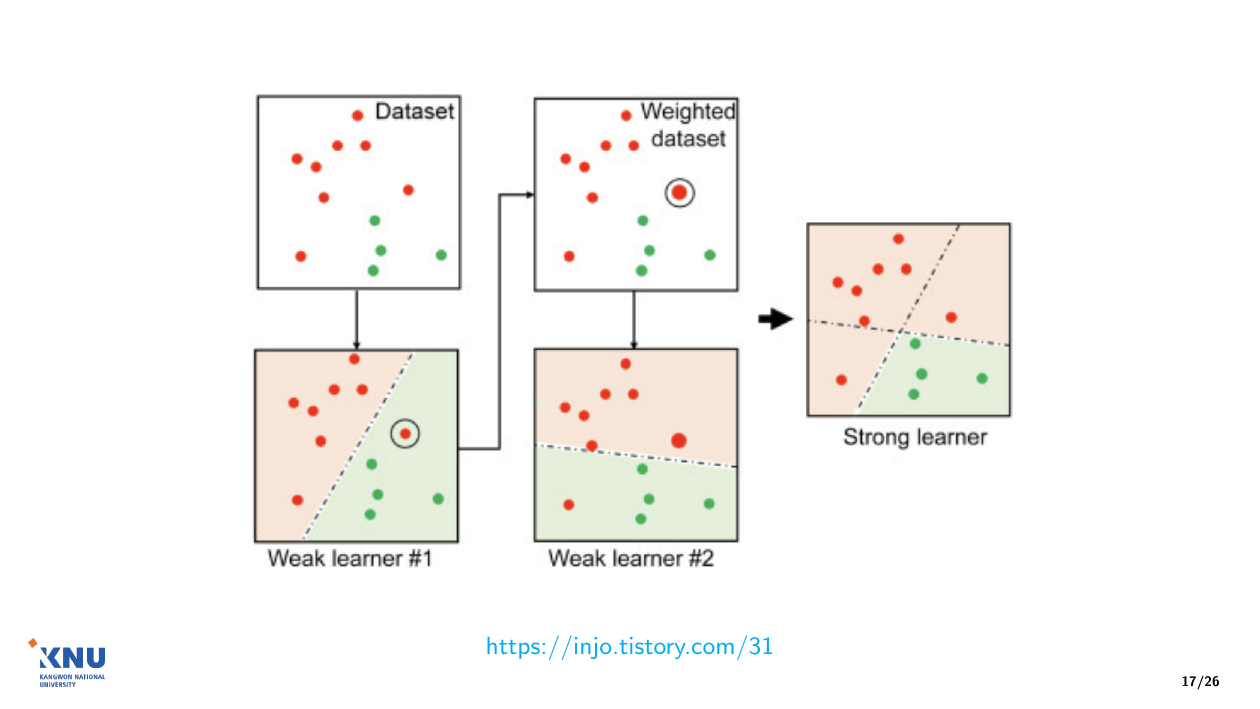
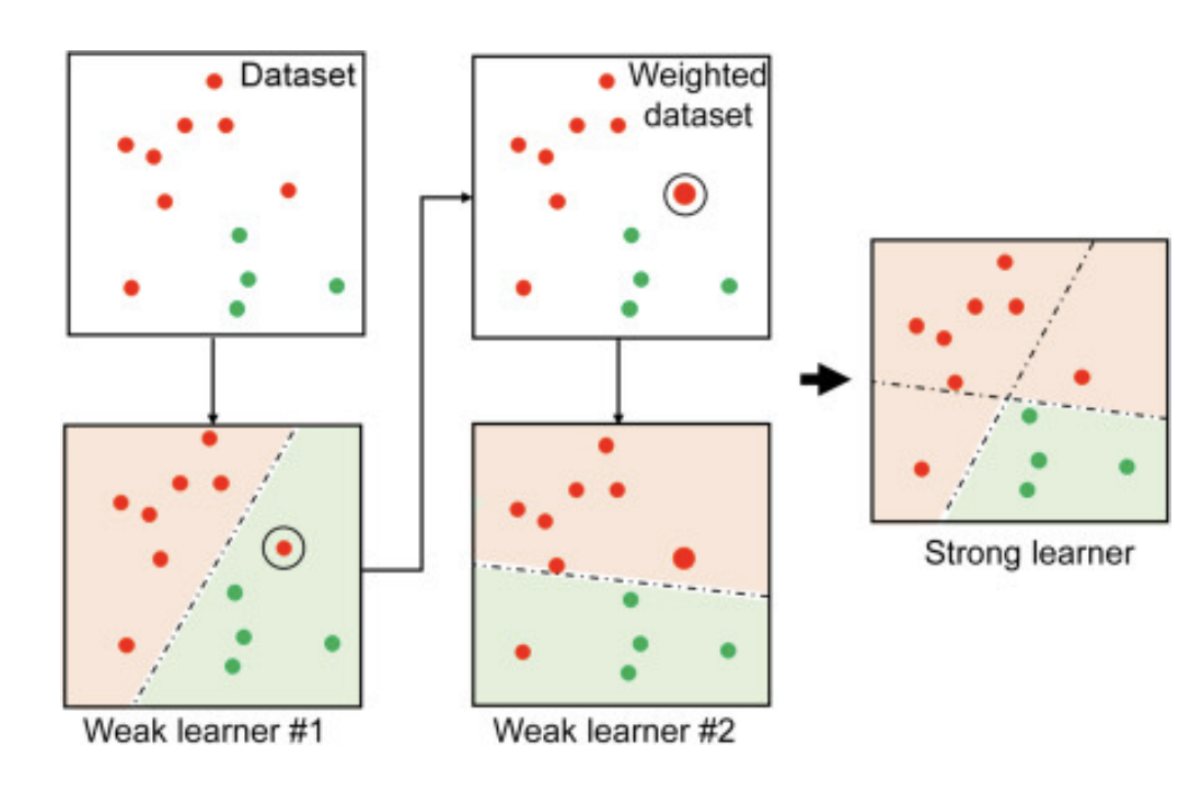
인공지능 7-2·8-1: 결정 트리 16–35쪽은 8-1 수업·시험 범위로 표기 정정, 8-1 원본 그림을 교안 그림 캡처로 교체
Claude-Session: https://claude.ai/code/session_01F7KMbNBwyG5dQ2szsSSuDG

diff --git a/drive/ai/lecture/midterm.html b/drive/ai/lecture/midterm.html
@@ -436,8 +436,8 @@ body.nav-closed .wrap{grid-template-columns:minmax(0,1fr)}body.nav-closed .side{
           <tr><td><b>6-1</b></td><td>10.08 (목)</td><td>선형 회귀 · 로지스틱 회귀</td><td>점들만 보고 x와 y의 관계식(β)을 어떻게 찾나? y가 0/1이면?</td><td><a href="./week06/06-1.html#intro">00</a> · <a href="./week06/06-1.html#s20">예상 문제</a></td></tr>
           <tr><td><b>6-2</b></td><td>10.12 (월)</td><td>SVM</td><td>두 클래스 사이에 선을 긋는다면 어디가 가장 안전한가?</td><td><a href="./week06/06-2.html#intro">00</a> · <a href="./week06/06-2.html#s20">예상 문제</a></td></tr>
           <tr><td><b>7-1</b></td><td>10.15 (목)</td><td>군집화 (K-평균 · 계층적 · DBSCAN 소개)</td><td>정답 없이 비슷한 것끼리 어떻게 묶나?</td><td><a href="./week07/07-1.html#intro">00</a> · <a href="./week07/07-1.html#s26">예상 문제</a></td></tr>
-          <tr><td><b>7-2</b></td><td>10.19 (월)</td><td>DBSCAN · 결정 트리 (수업은 15쪽까지, 자료는 35쪽까지)</td><td>"빽빽하다"를 어떻게 정의하나? 어떤 질문을 먼저 해야 잘 나뉘나?</td><td><a href="./week07/07-2.html#intro">00</a> · <a href="./week07/07-2.html#s20">예상 문제</a></td></tr>
-          <tr><td><b>8-1</b></td><td>10.22 (목)</td><td>앙상블 학습 (투표 · 배깅 · 랜덤 포레스트 · 부스팅 · 스태킹)</td><td>약한 모델 여러 개를 어떻게 합치면 하나보다 나아지나?</td><td><a href="./week08/08-1.html#intro">00</a> · <a href="./week08/08-1.html#s26">예상 문제</a></td></tr>
+          <tr><td><b>7-2</b></td><td>10.19 (월)</td><td>DBSCAN · 결정 트리 (자료는 결정 트리 1–35쪽 전체)</td><td>"빽빽하다"를 어떻게 정의하나? 어떤 질문을 먼저 해야 잘 나뉘나?</td><td><a href="./week07/07-2.html#intro">00</a> · <a href="./week07/07-2.html#s20">예상 문제</a></td></tr>
+          <tr><td><b>8-1</b></td><td>10.22 (목)</td><td>결정 트리 16–35쪽(→ 7-2 자료) · 앙상블 학습</td><td>약한 모델 여러 개를 어떻게 합치면 하나보다 나아지나?</td><td><a href="./week08/08-1.html#intro">00</a> · <a href="./week08/08-1.html#s26">예상 문제</a></td></tr>
           <tr><td><b>8-2</b></td><td>—</td><td>중간고사 준비 — 교수님 시험 내용 정리(쪽집게) 예정</td><td>교수님이 짚어 주신 시험 포인트를 이 페이지에 반영합니다 (추후 작성)</td><td>—</td></tr>
           <tr><td><b>9-1</b></td><td>—</td><td><b>중간고사</b></td><td>—</td><td>—</td></tr>
         </tbody>
@@ -451,12 +451,12 @@ body.nav-closed .wrap{grid-template-columns:minmax(0,1fr)}body.nav-closed .side{
     <p>시험 범위의 모든 내용은 아래 지도 한 장에 들어갑니다. 4-2에서 AI를 <b>규칙기반</b>과 <b>머신러닝</b>으로 나누고, 머신러닝을 다시 <b>지도·비지도·강화</b>로 나눴습니다. 6주차부터는 이 칸들을 하나씩 채운 것입니다.</p>
     <figure>
       <svg viewBox="0 0 900 430" role="img" aria-label="시험 범위 전체 지도" style="font-family:var(--font)"><defs><marker id="mah" viewBox="0 0 10 10" refX="9" refY="5" markerWidth="6" markerHeight="6" orient="auto"><path d="M0 0L10 5L0 10z" style="fill:var(--ink-3)"/></marker></defs><rect x="375" y="10" width="150" height="40" rx="9" style="fill:var(--surface);stroke:var(--line);stroke-width:1.4"/><text x="450.0" y="35.0" text-anchor="middle" style="font-size:13.5px;font-weight:700;fill:var(--ink)">인공지능 (AI)</text><path d="M450 50 C450 70.0 150 70.0 150 88" style="fill:none;stroke:var(--ink-3);stroke-width:1.4" marker-end="url(#mah)"/><path d="M450 50 C450 70.0 560 70.0 560 88" style="fill:none;stroke:var(--ink-3);stroke-width:1.4" marker-end="url(#mah)"/><a href="./week04/04-2.html#s1"><rect x="55" y="90" width="190" height="48" rx="9" style="fill:var(--surface);stroke:var(--line);stroke-width:1.4"/><text x="150.0" y="112.0" text-anchor="middle" style="font-size:13.5px;font-weight:700;fill:var(--ink)">규칙기반 AI</text><text x="150.0" y="129.0" text-anchor="middle" style="font-size:11px;fill:var(--accent-deep);font-weight:700">4-2 1부</text></a><a href="./week04/04-2.html#s9"><rect x="450" y="90" width="220" height="48" rx="9" style="fill:var(--surface);stroke:var(--line);stroke-width:1.4"/><text x="560.0" y="112.0" text-anchor="middle" style="font-size:13.5px;font-weight:700;fill:var(--ink)">머신러닝 (ML)</text><text x="560.0" y="129.0" text-anchor="middle" style="font-size:11px;fill:var(--accent-deep);font-weight:700">4-2 2부 · 5-1</text></a><a href="./week04/04-2.html#s2"><rect x="55" y="160" width="190" height="62" rx="9" style="fill:var(--surface);stroke:var(--line);stroke-width:1.4"/><text x="150.0" y="189.0" text-anchor="middle" style="font-size:13.5px;fill:var(--ink)">논리·추론·탐색</text><text x="150.0" y="206.0" text-anchor="middle" style="font-size:11px;fill:var(--accent-deep);font-weight:700">명제 · A* · 전문가 시스템</text></a><path d="M150 138 V158" style="stroke:var(--ink-3);stroke-width:1.4" marker-end="url(#mah)"/><path d="M560 138 C560 159.0 360 159.0 360 178" style="fill:none;stroke:var(--ink-3);stroke-width:1.4" marker-end="url(#mah)"/><path d="M560 138 C560 159.0 640 159.0 640 178" style="fill:none;stroke:var(--ink-3);stroke-width:1.4" marker-end="url(#mah)"/><path d="M560 138 C560 159.0 820 159.0 820 178" style="fill:none;stroke:var(--ink-3);stroke-width:1.4" marker-end="url(#mah)"/><a href="./week04/04-2.html#s14"><rect x="270" y="180" width="180" height="46" rx="9" style="fill:var(--accent-soft);stroke:var(--line);stroke-width:1.4"/><text x="360.0" y="201.0" text-anchor="middle" style="font-size:13.5px;font-weight:700;fill:var(--ink)">지도 학습</text><text x="360.0" y="218.0" text-anchor="middle" style="font-size:11px;fill:var(--accent-deep);font-weight:700">x와 정답 y가 있음</text></a><a href="./week04/04-2.html#s15"><rect x="560" y="180" width="160" height="46" rx="9" style="fill:var(--accent-soft);stroke:var(--line);stroke-width:1.4"/><text x="640.0" y="201.0" text-anchor="middle" style="font-size:13.5px;font-weight:700;fill:var(--ink)">비지도 학습</text><text x="640.0" y="218.0" text-anchor="middle" style="font-size:11px;fill:var(--accent-deep);font-weight:700">x만 있음</text></a><a href="./week04/04-2.html#s16"><rect x="745" y="180" width="145" height="46" rx="9" style="fill:var(--accent-soft);stroke:var(--line);stroke-width:1.4"/><text x="817.5" y="201.0" text-anchor="middle" style="font-size:13.5px;font-weight:700;fill:var(--ink)">강화 학습</text><text x="817.5" y="218.0" text-anchor="middle" style="font-size:11px;fill:var(--accent-deep);font-weight:700">4-2 개념만</text></a><path d="M360 226 C360 247.0 160 247.0 160 266" style="fill:none;stroke:var(--ink-3);stroke-width:1.4" marker-end="url(#mah)"/><path d="M360 226 C360 247.0 450 247.0 450 266" style="fill:none;stroke:var(--ink-3);stroke-width:1.4" marker-end="url(#mah)"/><rect x="80" y="268" width="160" height="40" rx="9" style="fill:var(--surface);stroke:var(--line);stroke-width:1.4"/><text x="160.0" y="293.0" text-anchor="middle" style="font-size:13.5px;font-weight:700;fill:var(--ink)">회귀 — 숫자 예측</text><rect x="330" y="268" width="240" height="40" rx="9" style="fill:var(--surface);stroke:var(--line);stroke-width:1.4"/><text x="450.0" y="293.0" text-anchor="middle" style="font-size:13.5px;font-weight:700;fill:var(--ink)">분류 — 범주 예측</text><path d="M160 308 C160 326.5 105 326.5 105 343" style="fill:none;stroke:var(--ink-3);stroke-width:1.4" marker-end="url(#mah)"/><path d="M160 308 C160 326.5 225 326.5 225 343" style="fill:none;stroke:var(--ink-3);stroke-width:1.4" marker-end="url(#mah)"/><a href="./week06/06-1.html#s5"><rect x="30" y="345" width="150" height="50" rx="9" style="fill:var(--surface);stroke:var(--line);stroke-width:1.4"/><text x="105.0" y="368.0" text-anchor="middle" style="font-size:13.5px;font-weight:700;fill:var(--ink)">선형 회귀</text><text x="105.0" y="385.0" text-anchor="middle" style="font-size:11px;fill:var(--accent-deep);font-weight:700">6-1 1부</text></a><a href="./week07/07-2.html#s11"><rect x="190" y="345" width="120" height="50" rx="9" style="fill:var(--surface);stroke:var(--ink-3);stroke-width:1.4"/><text x="250.0" y="368.0" text-anchor="middle" style="font-size:13.5px;font-weight:700;fill:var(--ink)">회귀 트리</text><text x="250.0" y="385.0" text-anchor="middle" style="font-size:11px;fill:var(--accent-deep);font-weight:700">7-2</text></a><path d="M450 308 C450 326.5 380 326.5 380 343" style="fill:none;stroke:var(--ink-3);stroke-width:1.4" marker-end="url(#mah)"/><path d="M450 308 C450 326.5 485 326.5 485 343" style="fill:none;stroke:var(--ink-3);stroke-width:1.4" marker-end="url(#mah)"/><path d="M450 308 C450 326.5 595 326.5 595 343" style="fill:none;stroke:var(--ink-3);stroke-width:1.4" marker-end="url(#mah)"/><a href="./week06/06-1.html#s15"><rect x="320" y="345" width="120" height="50" rx="9" style="fill:var(--surface);stroke:var(--line);stroke-width:1.4"/><text x="380.0" y="368.0" text-anchor="middle" style="font-size:13.5px;font-weight:700;fill:var(--ink)">로지스틱 회귀</text><text x="380.0" y="385.0" text-anchor="middle" style="font-size:11px;fill:var(--accent-deep);font-weight:700">6-1 2부</text></a><a href="./week06/06-2.html#s1"><rect x="450" y="345" width="70" height="50" rx="9" style="fill:var(--surface);stroke:var(--line);stroke-width:1.4"/><text x="485.0" y="368.0" text-anchor="middle" style="font-size:13.5px;font-weight:700;fill:var(--ink)">SVM</text><text x="485.0" y="385.0" text-anchor="middle" style="font-size:11px;fill:var(--accent-deep);font-weight:700">6-2</text></a><a href="./week07/07-2.html#s1"><rect x="530" y="345" width="120" height="50" rx="9" style="fill:var(--surface);stroke:var(--line);stroke-width:1.4"/><text x="590.0" y="368.0" text-anchor="middle" style="font-size:13.5px;font-weight:700;fill:var(--ink)">결정 트리</text><text x="590.0" y="385.0" text-anchor="middle" style="font-size:11px;fill:var(--accent-deep);font-weight:700">7-2</text></a><path d="M640 226 V262" style="stroke:var(--ink-3);stroke-width:1.4" marker-end="url(#mah)"/><rect x="590" y="264" width="100" height="40" rx="9" style="fill:var(--surface);stroke:var(--line);stroke-width:1.4"/><text x="640.0" y="289.0" text-anchor="middle" style="font-size:13.5px;font-weight:700;fill:var(--ink)">군집화</text><path d="M640 304 C640 324.5 690 324.5 690 343" style="fill:none;stroke:var(--ink-3);stroke-width:1.4" marker-end="url(#mah)"/><path d="M640 304 C640 324.5 800 324.5 800 343" style="fill:none;stroke:var(--ink-3);stroke-width:1.4" marker-end="url(#mah)"/><a href="./week07/07-1.html#s4"><rect x="662" y="345" width="110" height="50" rx="9" style="fill:var(--surface);stroke:var(--line);stroke-width:1.4"/><text x="717.0" y="368.0" text-anchor="middle" style="font-size:13.5px;font-weight:700;fill:var(--ink)">K-평균 · 계층적</text><text x="717.0" y="385.0" text-anchor="middle" style="font-size:11px;fill:var(--accent-deep);font-weight:700">7-1 (거리)</text></a><a href="./week07/07-1.html#s16"><rect x="782" y="345" width="110" height="50" rx="9" style="fill:var(--surface);stroke:var(--line);stroke-width:1.4"/><text x="837.0" y="368.0" text-anchor="middle" style="font-size:13.5px;font-weight:700;fill:var(--ink)">DBSCAN · GMM</text><text x="837.0" y="385.0" text-anchor="middle" style="font-size:11px;fill:var(--accent-deep);font-weight:700">7-1 · 7-2 (밀도)</text></a><rect x="30" y="405" width="860" height="22" rx="9" style="fill:transparent;stroke:transparent;stroke-width:1.4"/><text x="460.0" y="421.0" text-anchor="middle" style="font-size:13.5px;fill:var(--ink)"></text><text x="450" y="420" text-anchor="middle" style="font-size:11.5px;fill:var(--ink-2)">모든 모델의 바탕: 5-1의 과대·과소적합, 테스트·검증, 수학(함수·미분·벡터·행렬·확률) — 상자를 누르면 해당 섹션으로 이동</text></svg>
-      <figcaption>시험 범위 전체 지도 — 상자를 누르면 해당 차시 섹션으로 이동합니다. 회귀 트리는 7-2 페이지 뒷부분(교안 29–33쪽, 수업에서는 다루지 않음)</figcaption>
+      <figcaption>시험 범위 전체 지도 — 상자를 누르면 해당 차시 섹션으로 이동합니다. 회귀 트리는 7-2 페이지 뒷부분(교안 29–33쪽, 8-1 수업 내용)</figcaption>
     </figure>
     <ul>
       <li><b>지도 학습</b> = 학습 데이터에 정답 y가 있음. y가 <b>숫자</b>면 회귀, <b>범주</b>면 분류 (<a href="./week04/04-2.html#s14">4-2의 14</a>).</li>
       <li><b>로지스틱 "회귀"는 분류</b>입니다. 이름만 회귀이고, 출력이 확률이라 0.5 기준으로 0/1을 정합니다 (<a href="./week06/06-1.html#s15">6-1의 15</a>).</li>
-      <li><b>결정 트리는 분류와 회귀를 둘 다</b> 합니다. 7-2 자료에 분류 트리와 회귀 트리가 모두 있습니다(회귀 트리는 수업에서 다루지 않음).</li>
+      <li><b>결정 트리는 분류와 회귀를 둘 다</b> 합니다. 7-2 자료에 분류 트리와 회귀 트리가 모두 있습니다(회귀 트리는 8-1 수업 내용).</li>
       <li><b>비지도 학습</b> = 정답 y 없이 x만. 시험 범위에서는 군집화만 다룹니다 (<a href="./week07/07-1.html#s1">7-1의 01</a>).</li>
     </ul>
   </section>
@@ -531,7 +531,7 @@ body.nav-closed .wrap{grid-template-columns:minmax(0,1fr)}body.nav-closed .side{
     <div class="call quote"><div class="t">공통</div><ul><li>시험에서 <b>식은 형태를 그대로 안내</b>해 주고, 식 자체를 외워 쓰게 하는 문제는 내지 않는다. 식은 이해를 돕기 위한 것 (<a href="./week06/06-2.html#s1">6-2</a>)</li></ul></div>
     <div class="call quote"><div class="t">★ 중요하다고 하신 것</div><ul><li><b>벌점 매개변수 C는 시험에 잘 나온다</b> — C 크기 ↔ 마진 폭 ↔ 과적합/과소적합 ↔ 편향/분산을 한 묶음으로 (<a href="./week06/06-2.html#s12">6-2의 12</a>)</li><li>SVM은 <b>서포트 벡터를 어떻게 선정하고 마진을 어떻게 최대로 하는지</b>를 배운다 (<a href="./week06/06-2.html#s1">6-2의 01</a>)</li><li>회귀계수는 <b>상관관계로 해석</b>, 인과관계로 단정하면 안 됨 (<a href="./week06/06-1.html#s10">6-1의 10</a>)</li><li>로그 오즈: <b>p(x)는 y가 1일 확률, 1 − p(x)는 y가 0일 확률</b> (<a href="./week06/06-1.html#s15">6-1의 15</a>)</li><li>DBSCAN 이름에서 중요한 것은 <b>Density와 Noise</b> (<a href="./week07/07-1.html#s16">7-1의 16</a>)</li><li>K-평균은 K를 정해 줘야 하고, <b>K가 바뀌면 cluster 번호는 같은 집단이 아님</b> (<a href="./week07/07-1.html#s4">7-1의 04</a>)</li><li>실루엣: <b>b는 커지고 a는 작아져야</b> 좋은 군집 (<a href="./week07/07-1.html#s12">7-1의 12</a>)</li><li>온라인 학습이 배치 학습보다 좋은 이유는 <b>더 빠르다</b>는 것 (<a href="./week04/04-2.html#s17">4-2의 17</a>)</li></ul></div>
     <div class="call quote"><div class="t">가볍게 · 범위 밖이라고 하신 것</div><ul><li>6-1 최소제곱 공식: <b>직접 푸는 문제는 안 나올 것 같다</b>, "이런 식으로 푼다"까지 이해 (<a href="./week06/06-1.html#s6">6-1의 06</a>)</li><li>6-1 다항 회귀: "차수를 올리면 구불구불해질 수 있다" 정도, 그 이상은 심화라 안 다룸 (<a href="./week06/06-1.html#s11">6-1의 11</a>)</li><li>6-2 교안 21–23쪽 힌지 손실: <b>심화, 시험에 직접 나오지 않음</b> (<a href="./week06/06-2.html#s14">6-2의 14</a>)</li><li>6-2 교안 24–27쪽 특징 공간 확장: <b>그림으로 이해</b> (<a href="./week06/06-2.html#s15">6-2의 15</a>)</li><li>6-2 교안 28–30쪽 커널: <b>심화, 사실상 공부 안 해도 되는 정도</b> — 이름 정도 (<a href="./week06/06-2.html#s16">6-2의 16</a>)</li><li>6-2 교안 31–32쪽: <b>시험 범위 아님</b>, 33쪽 SVR은 잘 안 씀 (<a href="./week06/06-2.html#s17">6-2의 17</a>)</li><li>7-1 교안 24쪽 연결 방식: <b>외울 것 없음</b> (<a href="./week07/07-1.html#s15">7-1의 15</a>)</li></ul></div>
-    <div class="call warn"><div class="t">아직 확인되지 않은 것</div><ul><li>6-2 C의 방향: 교안 16·18쪽(예산 C, 크면 마진 넓음)과 19·22쪽(벌점 C, 크면 마진 좁음)이 반대 — 수업에서 쓰신 정의 확인 필요</li><li>"31–32쪽 시험범위 아님"이 6-2(SVM) 교안인지 군집화 교안(7-2의 03–04)인지 — 지금은 6-2로 적용</li><li>결정 트리 16–35쪽(ID3·회귀 트리·한계)은 수업에서 다루지 않고 8-1부터 앙상블로 넘어감 — 시험 범위인지 확인 필요</li><li>8-1 앙상블은 아직 수업 필기·교수님 말씀을 받지 못함</li></ul></div>
+    <div class="call warn"><div class="t">아직 확인되지 않은 것</div><ul><li>6-2 C의 방향: 교안 16·18쪽(예산 C, 크면 마진 넓음)과 19·22쪽(벌점 C, 크면 마진 좁음)이 반대 — 수업에서 쓰신 정의 확인 필요</li><li>"31–32쪽 시험범위 아님"이 6-2(SVM) 교안인지 군집화 교안(7-2의 03–04)인지 — 지금은 6-2로 적용</li><li>8-1 앙상블은 아직 수업 필기·교수님 말씀을 받지 못함</li></ul></div>
   </section>
 
   <!-- 06 -->
@@ -555,7 +555,7 @@ body.nav-closed .wrap{grid-template-columns:minmax(0,1fr)}body.nav-closed .side{
   <!-- 07 -->
   <section id="s7">
     <h2 class="st"><span class="sq">07</span>8주차 1차시 — 앙상블 학습</h2>
-    <p>8-1부터 새 단원 앙상블 학습(Ensemble Learning, 교안 26쪽)입니다. 결정 트리 16–35쪽은 수업에서 다루지 않았고, 7-2 자료 뒷부분에 교안 기준으로 정리되어 있습니다. 8-1은 아직 수업 필기·교수님 말씀을 받지 못해 교안만으로 정리했습니다.</p>
+    <p>8-1부터 새 단원 앙상블 학습(Ensemble Learning, 교안 26쪽)입니다. 8-1 수업에서는 결정 트리 남은 부분(16–35쪽)도 다루지만, 차시마다 한 챕터로 공부할 수 있게 그 부분은 7-2 자료에 넣었습니다. 8-1은 아직 수업 필기·교수님 말씀을 받지 못해 교안만으로 정리했습니다.</p>
     <div class="tablewrap">
       <table>
         <thead><tr><th>교안 쪽</th><th>내용</th><th>한 줄</th><th>자료</th></tr></thead>

diff --git a/drive/ai/lecture/week07/07-2-note.html b/drive/ai/lecture/week07/07-2-note.html
@@ -203,12 +203,12 @@ body.memo .memo-note{display:inline}
 <li>ID3(엔트로피·정보 이득, 범주 수만큼 분할), 회귀 트리(리프 = y 평균, MSE 최소 분할, 계단 예측), 선형 vs 트리, 한계(회전·작은 변화에 민감). <a class="go" data-s="10"></a></li>
 <li><b>시험에 나올 것</b>: 노드 읽기, 지니·엔트로피 계산과 0/최댓값의 뜻, ΔG 계산으로 분할 고르기, 규제 방향.</li>
 </ol></div>
-<div class="warn" style="margin-top:14px"><div class="h">범위 안내</div><p>수업 시간에는 교안 <b>15쪽(CART 지니 예제)까지</b> 나갔고, 8주차 1차시부터는 새 단원(앙상블 학습)으로 넘어갔습니다. 16–35쪽(ID3 엔트로피 예제, 회귀 트리, 선형 vs 트리, 한계)은 <b>교수님 설명 없이 교안만으로</b> 정리했고, 시험 범위인지는 교수님 확인이 필요합니다. <a class="go" data-s="22"></a></p></div>
+<div class="warn" style="margin-top:14px"><div class="h">범위 안내</div><p>7주차 2차시 수업은 교안 <b>15쪽(CART 지니 예제)까지</b>, 16–35쪽(ID3 엔트로피 예제, 회귀 트리, 선형 vs 트리, 한계)은 <b>8주차 1차시 수업</b> 내용입니다. 차시마다 한 챕터로 공부할 수 있게 결정 트리 전체를 이 노트에 모았습니다. <b>모두 시험 범위</b>입니다. <a class="go" data-s="22"></a></p></div>
 </section>
 
 <section id="n2"><h2><span class="no">02</span>교수님이 짚은 포인트</h2>
 <div class="prof"><div class="h">교수님 말씀</div><p>이 차시에는 교수님이 따로 짚은 시험 포인트가 필기에 없습니다. 결정 트리의 심화·시험 범위 표시도 받지 못했습니다.</p></div>
-<div class="prof"><div class="h">범위 (필기)</div><p>필기 원문: <q>T15페이지 까지(앤트로피 예제부터 다음 시간 수업) 수업 끝</q> → 수업에서 다룬 범위는 교안 1–15쪽. 다음 시간(8-1)은 엔트로피 예제가 아니라 앙상블 학습으로 넘어갔습니다. <a class="go" data-s="22"></a></p></div>
+<div class="prof"><div class="h">범위 (필기)</div><p>필기 원문: <q>T15페이지 까지(앤트로피 예제부터 다음 시간 수업) 수업 끝</q> → 7-2 수업은 교안 1–15쪽, 16쪽(엔트로피 예제)부터는 8-1 수업. <a class="go" data-s="22"></a></p></div>
 <div class="prof"><div class="h">교수님 말씀 · 6-2 차시 (전 범위 공통)</div><p>시험에서 식은 형태를 그대로 안내해 주고, 식 자체를 외워 쓰게 하는 문제는 내지 않는다. 식은 이해를 돕기 위한 것. → 지니·엔트로피·ΔG 식은 <b>각 부분의 뜻</b>과 <b>숫자 넣어 계산</b>을 할 수 있으면 됩니다.</p></div>
 </section>
 
@@ -232,7 +232,7 @@ body.memo .memo-note{display:inline}
 <dt>배깅 · 랜덤 포레스트 · 부스팅</dt><dd class="ans">트리를 여러 개 키워 하나의 합의된 예측(consensus prediction)으로 합치는 방법. 정확도는 크게 좋아지지만 해석력을 일부 잃습니다. <a class="go" data-s="02"></a><a class="go pdf" data-doc="dt" data-pg="2"></a></dd>
 </dl>
 <h3>ID3 · 회귀 트리 · 한계</h3>
-<p class="small">교안 16–35쪽 기준(수업에서 다루지 않음).</p>
+<p class="small">교안 16–35쪽 (8-1 수업 내용).</p>
 <dl class="defs">
 <dt>ID3<span class="en">Iterative Dichotomiser 3</span></dt><dd class="ans">엔트로피로 정보 이득을 계산하고 <b>정보 이득이 가장 큰 속성</b>을 분할 속성으로 고릅니다. 이진 분할이 아니라 특징의 범주 수만큼 가지를 나눕니다. <a class="go" data-s="10"></a><a class="go pdf" data-doc="dt" data-pg="16"></a></dd>
 <dt>정보 이득<span class="en">Information gain</span></dt><dd class="ans">엔트로피의 감소량: H(D) − 나눈 뒤 엔트로피의 샘플 수 가중평균. <a class="go" data-s="10"></a><a class="go pdf" data-doc="dt" data-pg="17"></a></dd>

diff --git a/drive/ai/lecture/week07/07-2.html b/drive/ai/lecture/week07/07-2.html
@@ -303,7 +303,7 @@ body.toc-on .scrim{display:block}
       <div class="pane"><div class="tag v">Part 2 · 10</div><div class="say">ID3 엔트로피 예제</div><p class="small">정보 이득으로 특징 고르기 — 14명 데이터로 끝까지</p></div>
       <div class="pane"><div class="tag v">Part 3 · 11–17</div><div class="say">회귀 트리와 한계</div><p class="small">리프 = 평균, MSE, 계단 예측, 선형 vs 트리, 한계</p></div>
     </div>
-    <p class="small" style="margin-top:.9em">7주차 2차시 수업은 군집화 DBSCAN(26–35쪽)과 결정 트리 1–15쪽이었습니다. 시험 준비용으로 챕터별로 나눠 DBSCAN은 7주차 1차시 자료로 옮겼고, 이 자료는 결정 트리만 담았습니다. 수업 시간에는 15쪽(CART 지니 예제)까지 나갔고, 8주차 1차시부터는 새 단원(앙상블 학습)으로 넘어갔습니다. 그래서 16–35쪽은 <b>교수님 설명 없이 교안만으로</b> 정리했습니다.</p>
+    <p class="small" style="margin-top:.9em">7주차 2차시 수업은 군집화 DBSCAN(26–35쪽)과 결정 트리 1–15쪽이었습니다. 시험 준비용으로 챕터별로 나눠 DBSCAN은 7주차 1차시 자료로 옮겼고, 이 자료는 결정 트리만 담았습니다. 결정 트리 16–35쪽은 8주차 1차시 수업 내용이지만, 차시마다 한 챕터로 공부할 수 있게 이 자료에 이어서 넣었습니다(8주차 1차시 자료는 앙상블 학습만). <b>모두 시험 범위</b>입니다.</p>
   </div>
 </section>
 
@@ -318,7 +318,7 @@ body.toc-on .scrim{display:block}
       <tr><td><b class="v">계산 연습</b></td><td>16–28</td><td>10</td><td>엔트로피와 정보 이득을 계산해 가장 큰 특징을 고른다. CART와 같은 점·다른 점</td></tr>
       <tr><td><b class="v">꼭 이해</b></td><td>29–35</td><td>11–17</td><td>회귀 트리: <mark>리프 예측 = 평균</mark>, MSE 최소 분할, 계단 모양 예측. 선형 vs 트리, 한계 두 가지</td></tr>
     </table>
-    <p class="small" style="margin-top:.4em">16–35쪽은 수업에서 다루지 않아 시험 범위 여부는 교수님 확인이 필요합니다. 이 차시는 진도만 받았고 심화·시험 범위에 대한 교수님 말씀은 받지 못해, 구분은 제 추측입니다. 6주차에 "식은 형태를 안내해 준다"고 하셨으니 식은 <b>각 부분의 뜻</b>을 보는 대상으로 읽으면 됩니다.</p>
+    <p class="small" style="margin-top:.4em">이 차시는 진도만 받았고 심화·시험 범위에 대한 교수님 말씀은 받지 못해, 구분은 제 추측입니다. 6주차에 "식은 형태를 안내해 준다"고 하셨으니 식은 <b>각 부분의 뜻</b>을 보는 대상으로 읽으면 됩니다.</p>
   </div>
 </section>
 
@@ -921,7 +921,7 @@ body.toc-on .scrim{display:block}
   <h2>확인 필요 · 교안 주의</h2>
   <div class="body cols wide-l">
     <div class="warn" style="font-size:.86em"><div class="h">질문</div>
-      <p>결정 트리 16–35쪽(10–17)은 수업에서 다루지 않고 8주차 1차시부터 앙상블로 넘어갔습니다. 이 부분이 시험 범위인지 교수님께 확인이 필요합니다.</p>
+      <p>결정 트리 16–35쪽(10–17)은 8주차 1차시 수업 내용입니다. 수업 필기를 받으면 교수님 말씀을 반영하겠습니다.</p>
       <p style="margin:0">이 차시의 시험 범위·심화 여부에 대한 교수님 말씀은 아직 받지 못했습니다.</p>
     </div>
     <div class="box"><div class="h">고친 것 · 주의 (교안)</div>

diff --git a/drive/ai/lecture/week08/08-1.html b/drive/ai/lecture/week08/08-1.html
@@ -302,7 +302,7 @@ body.toc-on .scrim{display:block}
       <div class="pane"><div class="tag v">Part 2 · 12–23 · 교안 14–26쪽</div><div class="say">부스팅·스태킹</div><p class="small">AdaBoost 가중치 계산, 그래디언트 부스팅(잔차 학습), XGBoost, 스태킹, 네 방법 비교</p></div>
       <div class="pane"><div class="tag v">마무리</div><div class="say">정리와 예상 문제</div><p class="small">전체 정리, 용어, 교안 확인 필요, 예상 문제(풀이는 눌러서 보기), 단어장</p></div>
     </div>
-    <p class="small" style="margin-top:.9em">7-2에서 본 결정 트리의 한계(회전·작은 변화에 민감 = 분산이 큼)를 트리를 여러 개 합쳐서 보완하는 단원입니다. 교안 27쪽(Thank You)·28쪽(참고문헌)은 내용이 없어 뺐습니다.</p>
+    <p class="small" style="margin-top:.9em">7-2에서 본 결정 트리의 한계(회전·작은 변화에 민감 = 분산이 큼)를 트리를 여러 개 합쳐서 보완하는 단원입니다. 교안 27쪽(Thank You)·28쪽(참고문헌)은 내용이 없어 뺐습니다. 이 차시 수업의 결정 트리 남은 부분(교안 16–35쪽)은 챕터별로 공부하기 쉽게 <b>7주차 2차시 자료</b>에 넣었습니다.</p>
   </div>
 </section>
 
